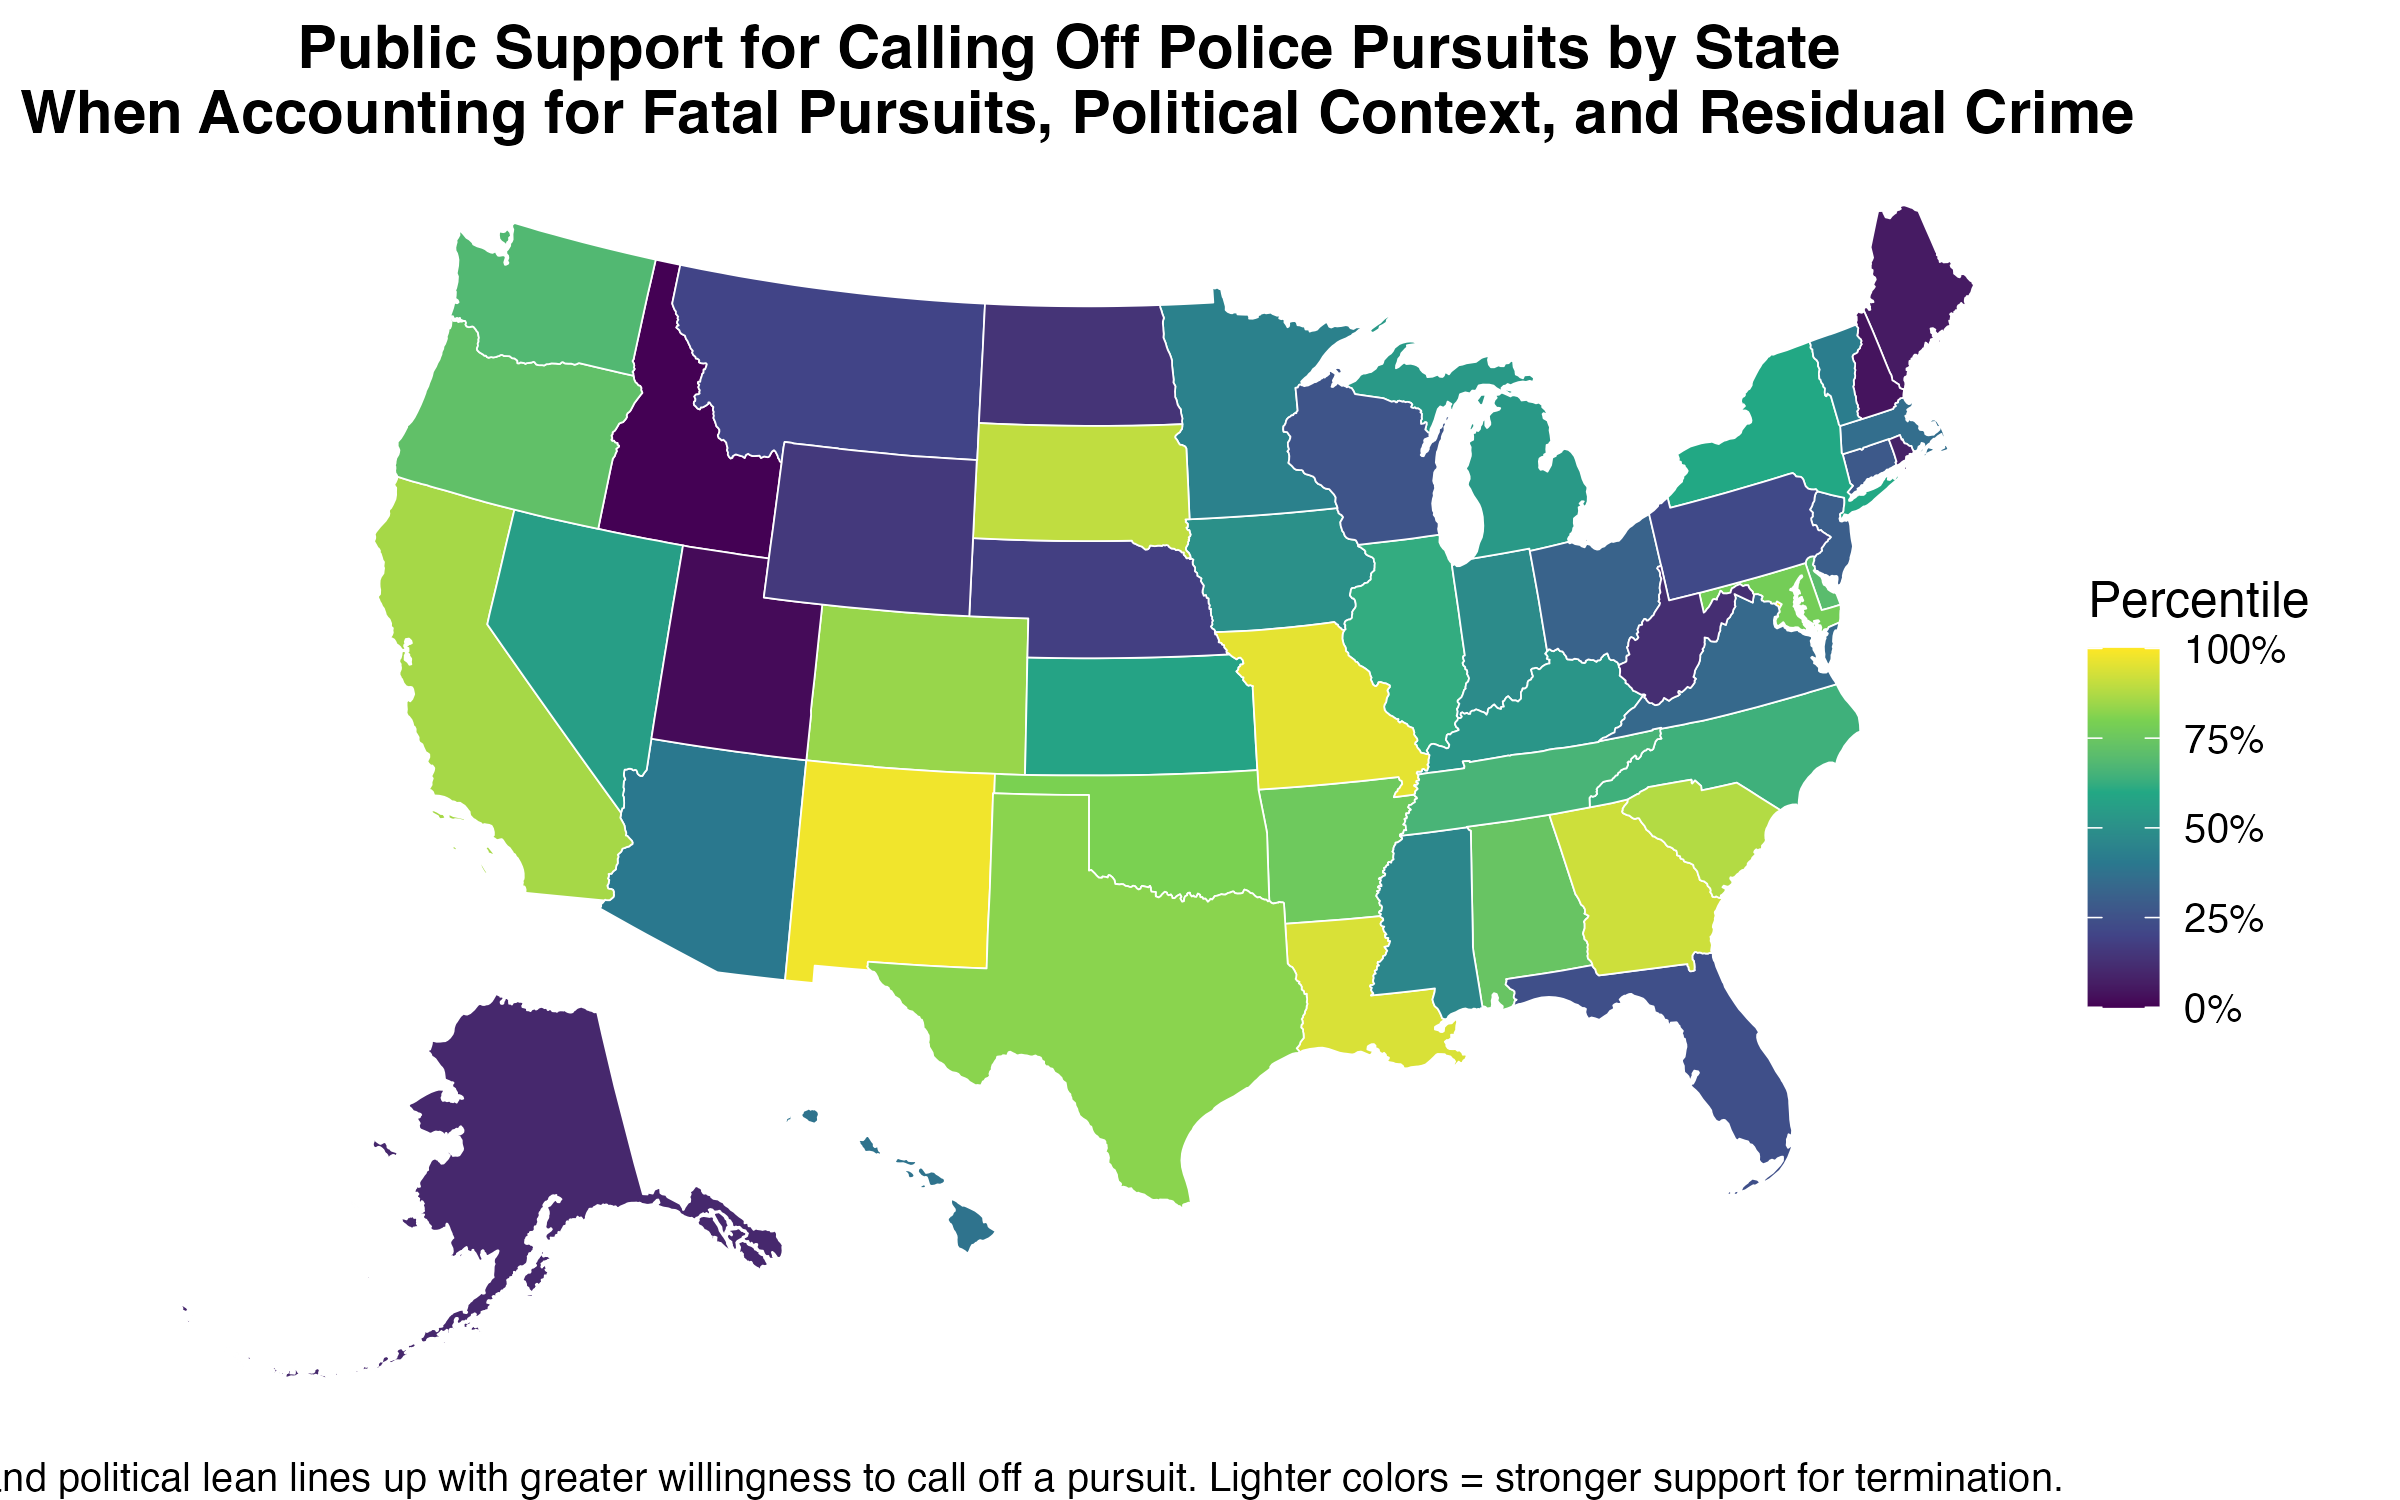
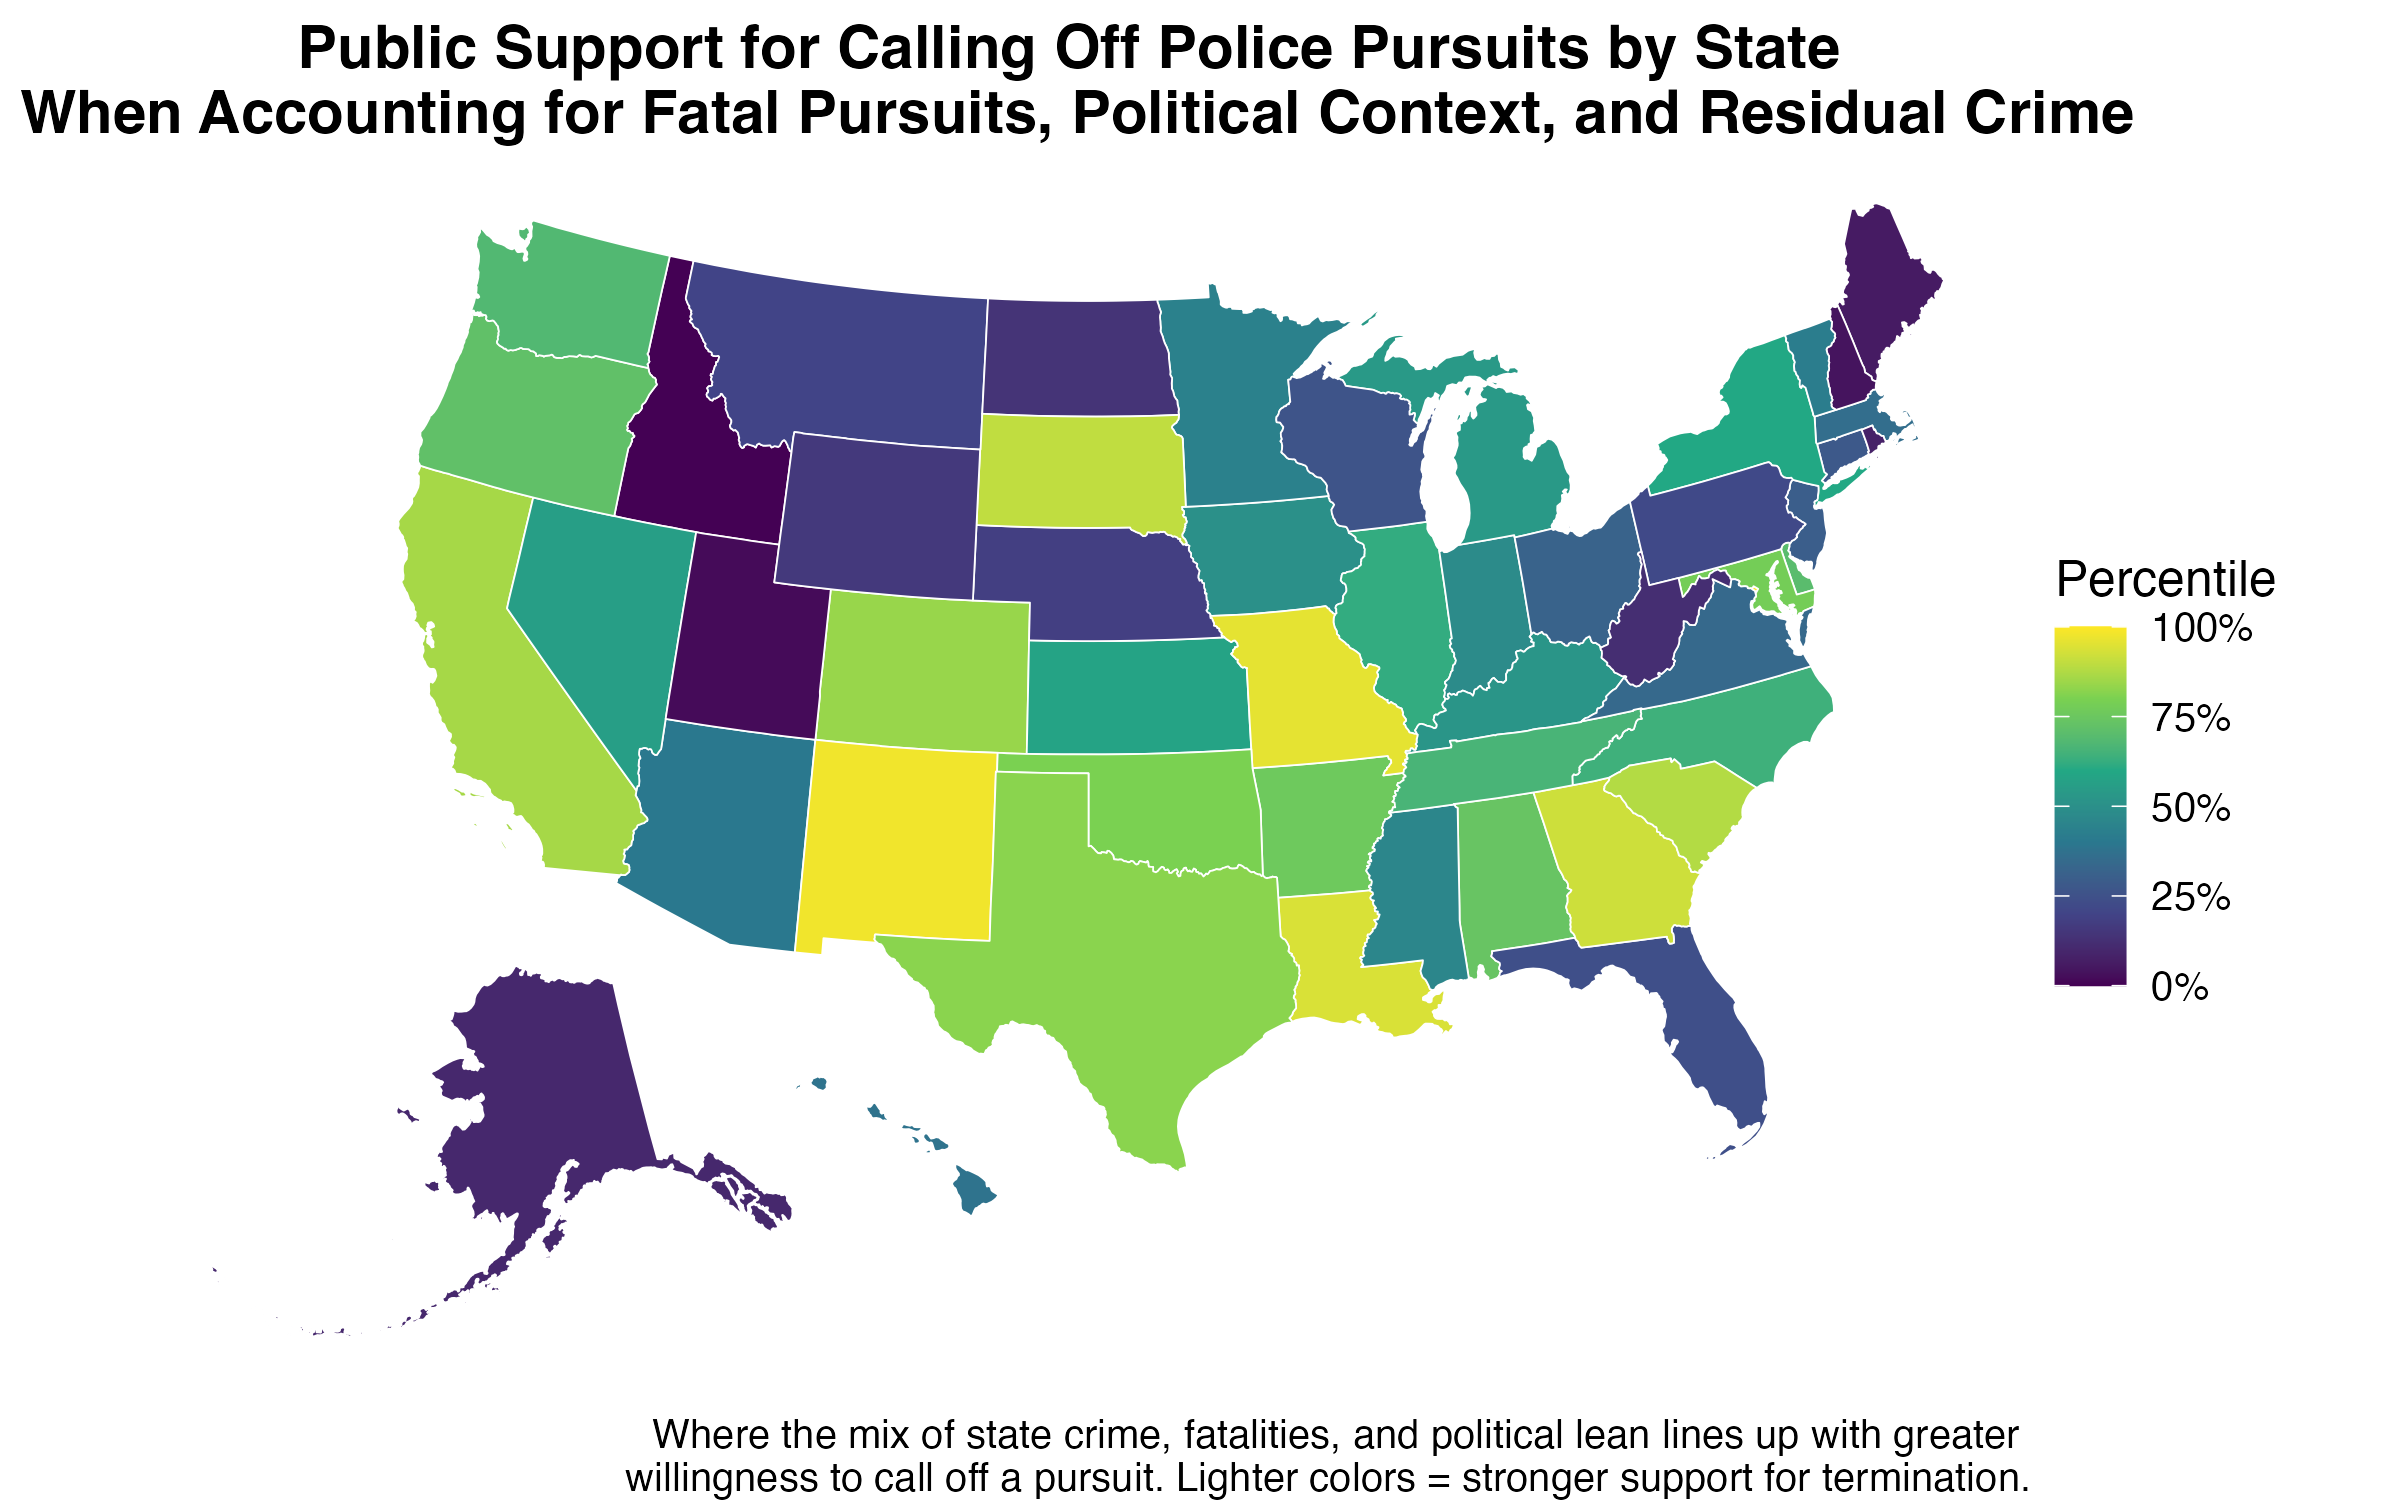
Update pursuit state post

diff --git a/content/post/Mapping Public Support for Police Pursuits/index.en.html b/content/post/Mapping Public Support for Police Pursuits/index.en.html
@@ -11,7 +11,7 @@ authors: ['Scott M. Mourtgos']
 lastmod: '2025-08-12T08:00:00-04:00'
 featured: yes
 image:
-  caption: 'Map of composite pursuit termination support by state'
+  caption: 'Map of fatal pursuits by state'
   focal_point: 'center'
   preview_only: no
 projects: []
@@ -26,13 +26,13 @@ projects: []
 <p><strong>Based on data from a May 2025 nationally representative survey experiment (N ~ 3,300).</strong></p>
 <div id="from-risk-evaluations-to-state-level-patterns" class="section level3">
 <h3>From Risk Evaluations to State-Level Patterns</h3>
-<p>Earlier this year, my colleagues Geoff Alpert, Ian Adams, Kyle McLean, and I fielded a nationally representative conjoint survey asking Americans to evaluate police pursuit scenarios. Each scenario varied on eleven factors: offense type, speed, traffic, weather, and more. Respondents indicated both how risky they thought the pursuit was and whether they would end it.</p>
+<p>Earlier this year, my colleagues Geoff Alpert, <a href="https://ianadamsresearch.com/">Ian Adams</a>, Kyle McLean, and I fielded a nationally representative conjoint survey experiment asking Americans to evaluate police pursuit scenarios. Each scenario varied on eleven factors: offense type, speed, traffic, weather, and more. Respondents indicated both how risky they thought the pursuit was and whether they would end it.</p>
 <p>Those results (which we’ll share in detail soon) showed that public preferences track closely with the proportional, risk–benefit reasoning embedded in modern pursuit policy. High-risk situations increased support for ending a pursuit, while more serious offenses reduced it.</p>
 <p>I am always fascinated by geographic variation in public opinion on policing issues, so I was left with a separate question: <em>Do these preferences vary meaningfully by state—and if so, why?</em></p>
 </div>
 <div id="measuring-state-level-support" class="section level3">
 <h3>Measuring State-Level Support</h3>
-<p>To find out, I aggregated the pursuit termination responses at the state level. The results? There <em>is</em> variation in how willing the public is to call off pursuits across states.</p>
+<p>To find out, I aggregated the pursuit termination responses at the state level. The results? There is variation in how willing the public is to call off pursuits across states.</p>
 <p><img src="termination_support_map.png" width="1200" style="display: block; margin: auto;" /></p>
 <p>Some states show higher support for ending pursuits; others, less. The challenge is explaining <em>why</em>.</p>
 </div>
@@ -68,7 +68,7 @@ projects: []
 <p>In short:</p>
 <ul>
 <li>The main study shows the public’s pursuit termination decisions largely follow a structured, proportional risk–benefit logic (again, we should be able to share these results soon).</li>
-<li>At the state level, there’s variation, and three factors (fatalities, political lean, and crime) help explain it.</li>
+<li>At the state level, there’s variation, and three factors (pursuit fatalities, political lean, and crime) help explain it.</li>
 <li>However, most of the explanatory power still comes from how people interpret the risk factors in each scenario, not from the broader context they live in.</li>
 </ul>
 </div>

diff --git a/content/post/Misperceptions/index.en.html b/content/post/Misperceptions/index.en.html
@@ -9,7 +9,7 @@ subtitle: "How accurate are Americans' perceptions of police use of force? A nat
 summary: 'New national survey data reveals geographic variation in how Americans perceive police use of force—and suggests that public estimates often exceed available benchmarks.'
 authors: ['Scott M. Mourtgos']
 lastmod: '2025-07-25T08:00:00-04:00'
-featured: yes
+featured: no
 image:
   caption: 'Choropleth map of misperception scores by state'
   focal_point: 'center'
